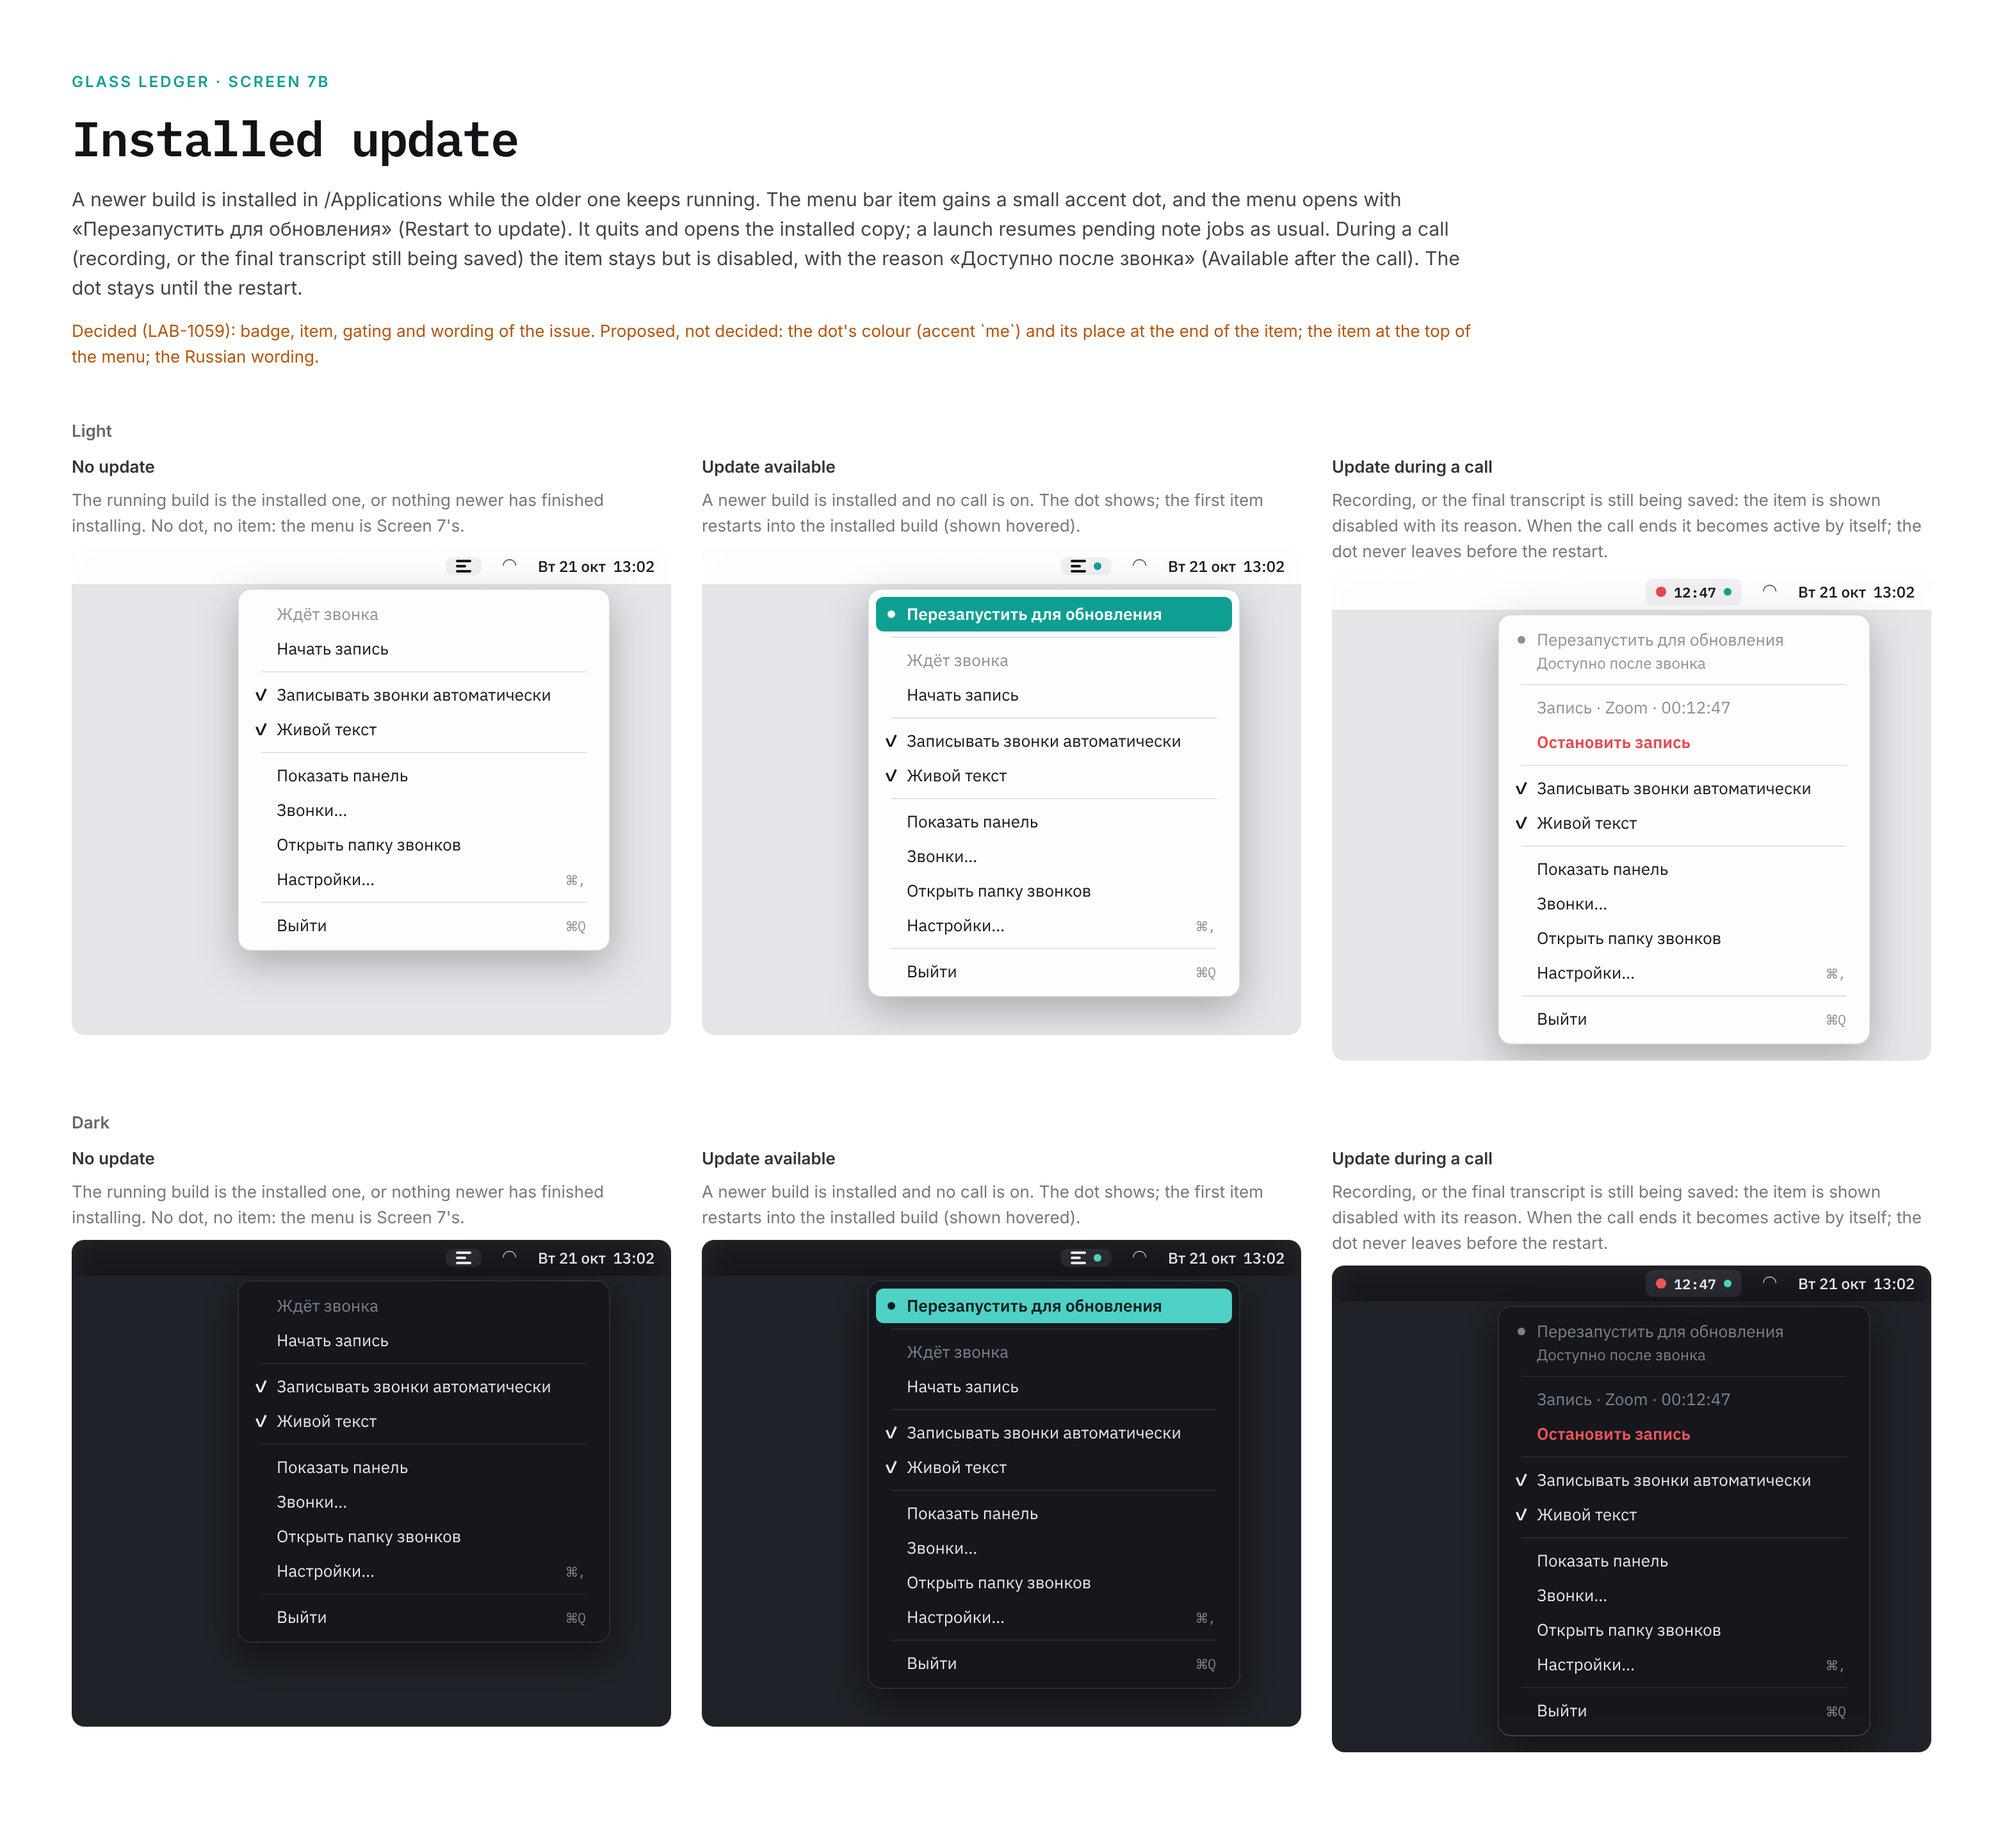
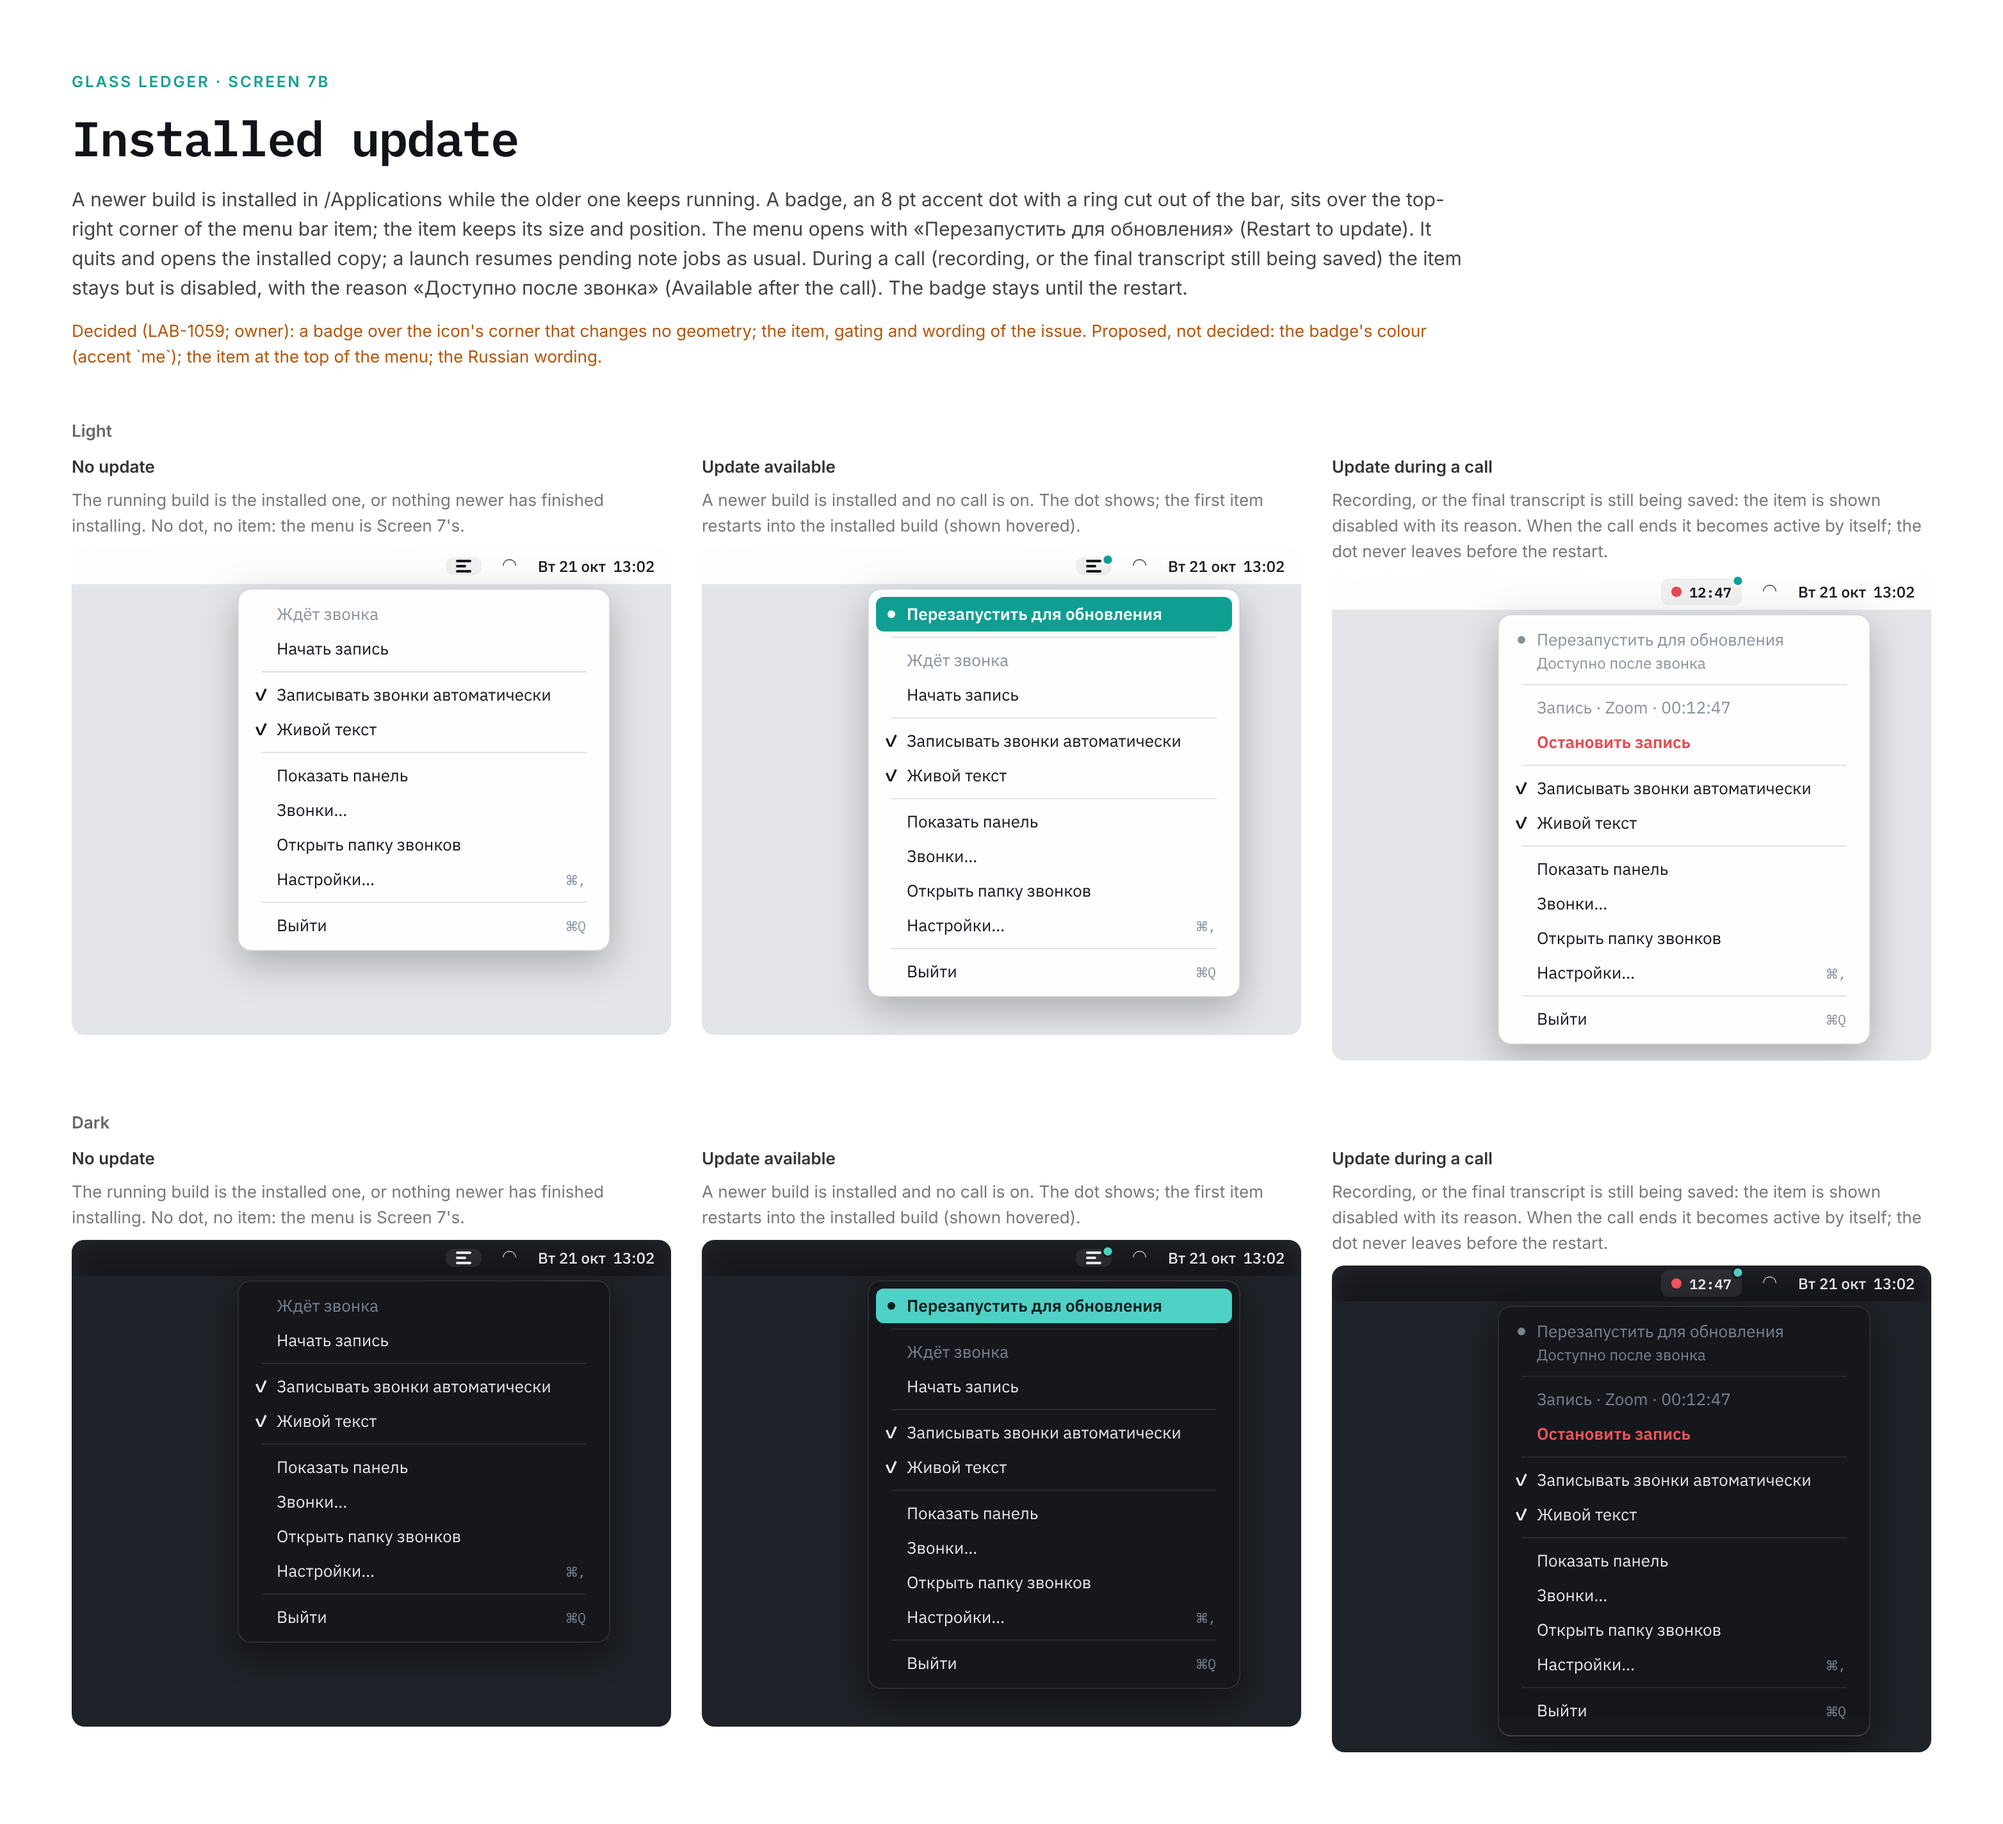
LAB-1059: draw the update badge over the item's corner

Changed region(s): [[0.031, 0.0938, 0.7132, 0.2188], [0.8373, 0.6875, 0.8683, 0.7188], [0.8373, 0.3125, 0.8683, 0.3438]]

diff --git a/audelin/docs/design/app-update.md b/audelin/docs/design/app-update.md
@@ -8,14 +8,16 @@ Logic: [../spec/app-update/SPEC.md](../spec/app-update/SPEC.md).
 ## What the owner sees
 
 - **No update.** The menu bar item and the menu are those of Screen 7.
-- **Update available.** A 6 pt dot in the accent colour (`me`) at the end
-  of the menu bar item, after the glyph or after the recording time. The
+- **Update available.** A badge: an 8 pt dot in the accent colour (`me`)
+  with a 1.5 pt ring in the bar's colour, over the top-right corner of the
+  menu bar item, whether it shows the glyph or the recording time. It is
+  drawn on top and changes no geometry: the item keeps its size and place. The
   menu opens with «Перезапустить для обновления» (Restart to update), with
   a matching dot in the check column, and then a separator.
 - **Update during a call.** While recording, or while the final transcript
   is still being saved, the item is shown disabled in `gutter`, with
   «Доступно после звонка» (Available after the call) under it in the small
-  size. It becomes active by itself when the call ends. The dot stays until
+  size. It becomes active by itself when the call ends. The badge stays until
   the restart.
 - Picking the item quits Audelin and opens the installed copy. A launch
   resumes pending note jobs as usual.
@@ -29,5 +31,5 @@ by accident.
 
 ## Proposed, not decided
 
-- The dot's colour and place, the item at the top of the menu, and the
+- The badge's colour, the item at the top of the menu, and the
   Russian wording.
